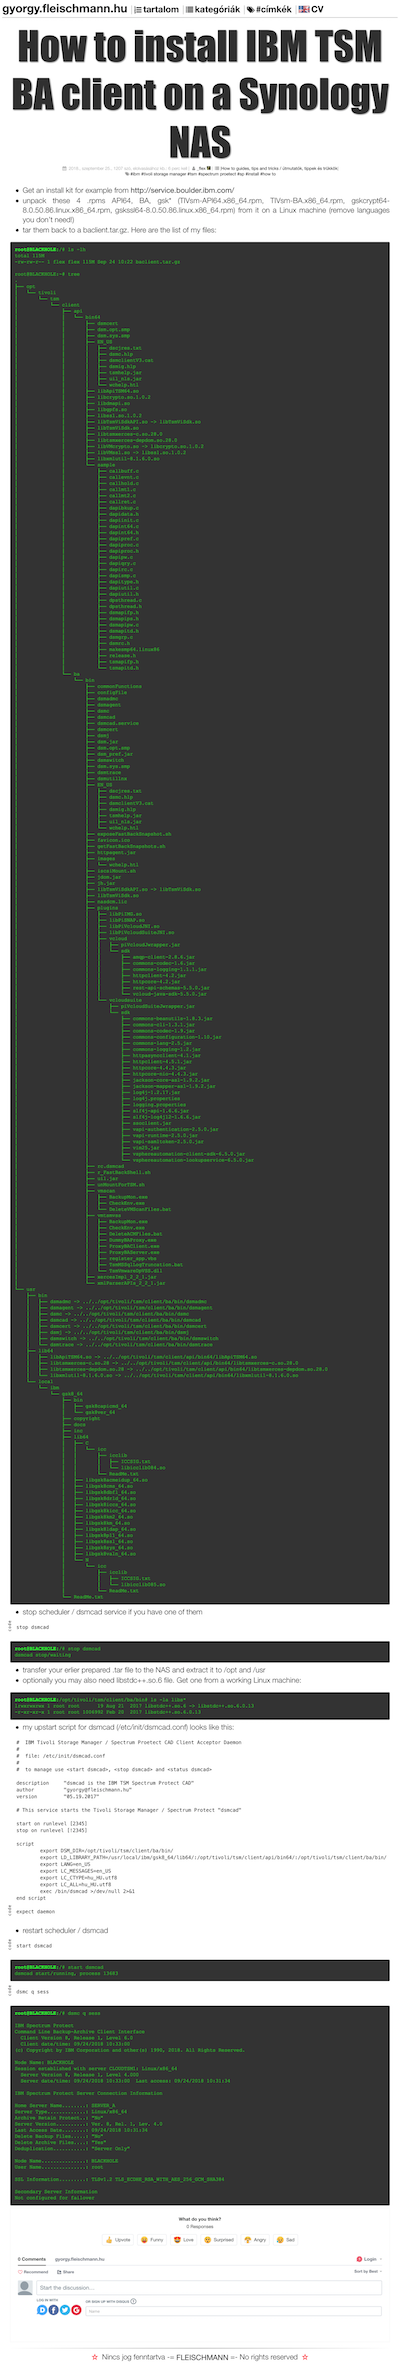
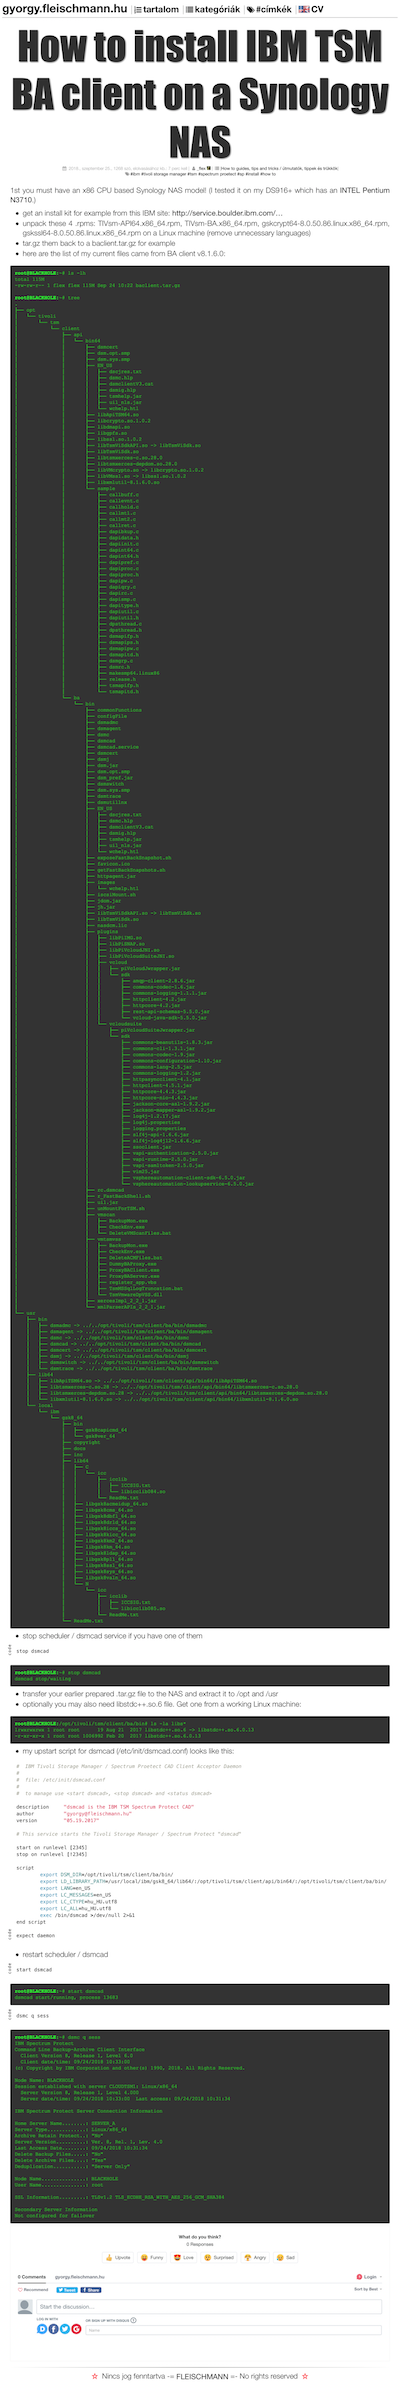
ADD: new post CHG: daily minor changes

diff --git a/_posts/2018-09-25-Install_TSM_client_on_Synology_NAS.md b/_posts/2018-09-25-Install_TSM_client_on_Synology_NAS.md
@@ -4,10 +4,10 @@ title:    How to install IBM TSM BA client on a Synology NAS
 author:   flex
 comments: true
 category: How to guides, tips and tricks / útmutatók, tippek és trükkök
-tags:     [ibm, tivoli storage manager, tsm, spectrum proetect, sp, install, how to]
+tags:     [ibm, tivoli storage manager, tsm, spectrum proetect, sp, symology, nas, install, how to]
 ---
 
-1st you must have an x86 CPU based Synology NAS model!
+1st you must have an x86 CPU based Synology NAS model! (I tested it on my DS916+ which has an [INTEL Pentium N3710](https://ark.intel.com/products/91830/Intel-Pentium-Processor-N3710-2M-Cache-up-to-2_56-GHz).)
 
 - get an install kit for example from this IBM site: [http://service.boulder.ibm.com/...](http://service.boulder.ibm.com/storage/tivoli-storage-management/maintenance/client/v8r1/Linux/LinuxX86/BA/)
 - unpack these 4 .rpms: TIVsm-API64.x86_64.rpm, TIVsm-BA.x86_64.rpm, gskcrypt64-8.0.50.86.linux.x86_64.rpm, gskssl64-8.0.50.86.linux.x86_64.rpm on a Linux machine (remove unnecessary languages)

diff --git a/halaszcsarda_projekt.md b/halaszcsarda_projekt.md
@@ -13,7 +13,7 @@ header_spacer: 93
 
 <!-- http://gaultmillau.hu/buvos-szakacs/halaszle-hagyomanyosan-es-maskepp -->
 
-**2018** legérdekesebb projektje, hogy megtaláljuk magyarország legjobb halászcsárdáját.
+**2018** legérdekesebb projektje, hogy megtaláljuk magyarország legjobb halászcsárdáját a 6-os út környékén. Az első látogatásunk Dunakömlődön volt 2017. november 29-én.
 
 <div id="map-wrap" class="" style="margin-bottom: .75em; -webkit-box-shadow: 0px 4px 18px rgba(0,0,0,0.84); -moz-box-shadow: 0px 4px 18px rgba(0,0,0,0.84); box-shadow: 0px 4px 18px rgba(0,0,0,0.84);">
 	<div id="map" style="width:auto; height:100vh;"></div>

diff --git a/_posts/2018-09-15-iPhone_pricing.md b/_posts/2018-09-15-iPhone_pricing.md
@@ -6,7 +6,7 @@ comments: true
 category: Apple
 tags:     [apple, iphone]
 
-beforeheaderHTML: '<div class="overridemaxwidthboth" style="margin-top: -14px;"><img class="shadow" style="width: 100%" src="https://www.apple.com/v/home/dv/images/fall-launch-products/iphone_xs_large_2x.jpg"></div>'
+beforeheaderHTML: '<div class="overridemaxwidthboth" style="margin-top: -14px;"><img class="shadow fade" id="fadeimg" onload="document.getElementById(''fadeimg'').style.opacity=''1''"" style="width: 100%" src="https://www.apple.com/v/home/dv/images/fall-launch-products/iphone_xs_large_2x.jpg"></div>'
 ---
 
 Elképesztő ÁRmókát játszik a vásárlóival az Apple.

diff --git a/_posts/2018-09-29-Manually_Install_Synology_NAS_updates.md b/_posts/2018-09-29-Manually_Install_Synology_NAS_updates.md
@@ -1,0 +1,10 @@
+---
+layout:   post
+title:    Manually update Synology NAS updates
+author:   flex
+comments: true
+category: How to guides, tips and tricks / útmutatók, tippek és trükkök
+tags:     [synology, nas, install, how to]
+---
+
+You can direcly download packages from here: [https://archive.synology.com/download/DSM/](https://archive.synology.com/download/DSM/)
